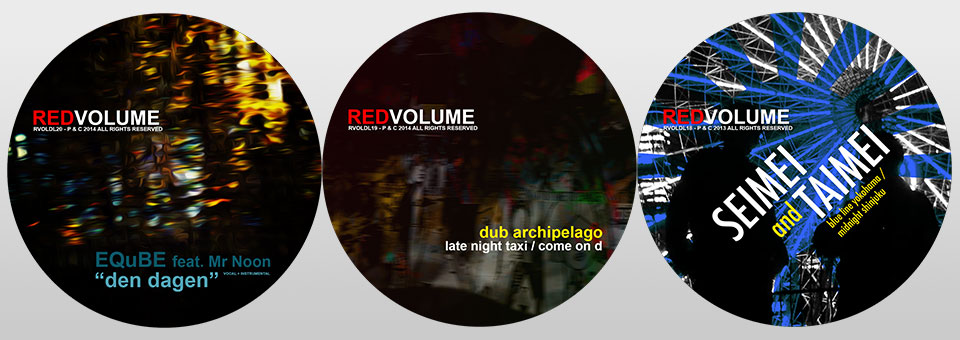
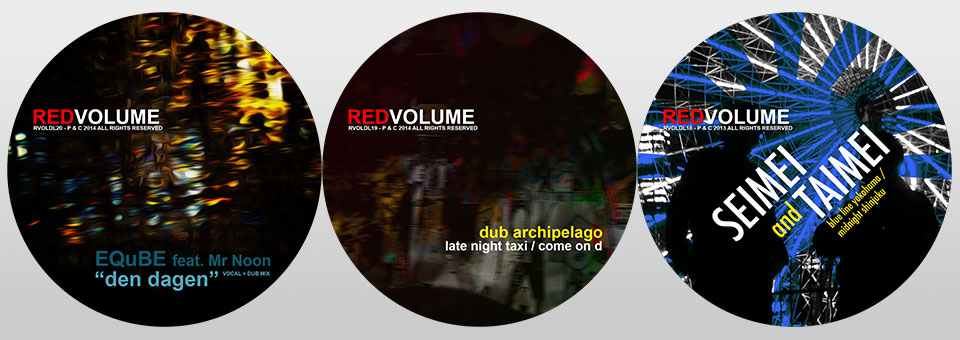
RVOLDL20 track change. Instrumental changed to Dub Mix.

diff --git a/releases.html b/releases.html
@@ -67,7 +67,7 @@
   <p><span class="label label-default label-danger">RVOLDL20</span> <span class="label label-default">Digital</span> <span class="label label-default">Mar 2014</span></p>
   <ol>
     <li>EQuBE feat. Mr Noon - Den Dagen</li>
-    <li>EQuBE - Den Dagen (Instrumental)</li>
+    <li>EQuBE - Den Dagen (Dub Mix)</li>
   </ol>
   <div class="btn-group">
     <a class="btn btn-default" href="https://soundcloud.com/redvolume/dub-archipelago-late-night"><span class="glyphicon glyphicon-headphones"></span> Listen</a>
